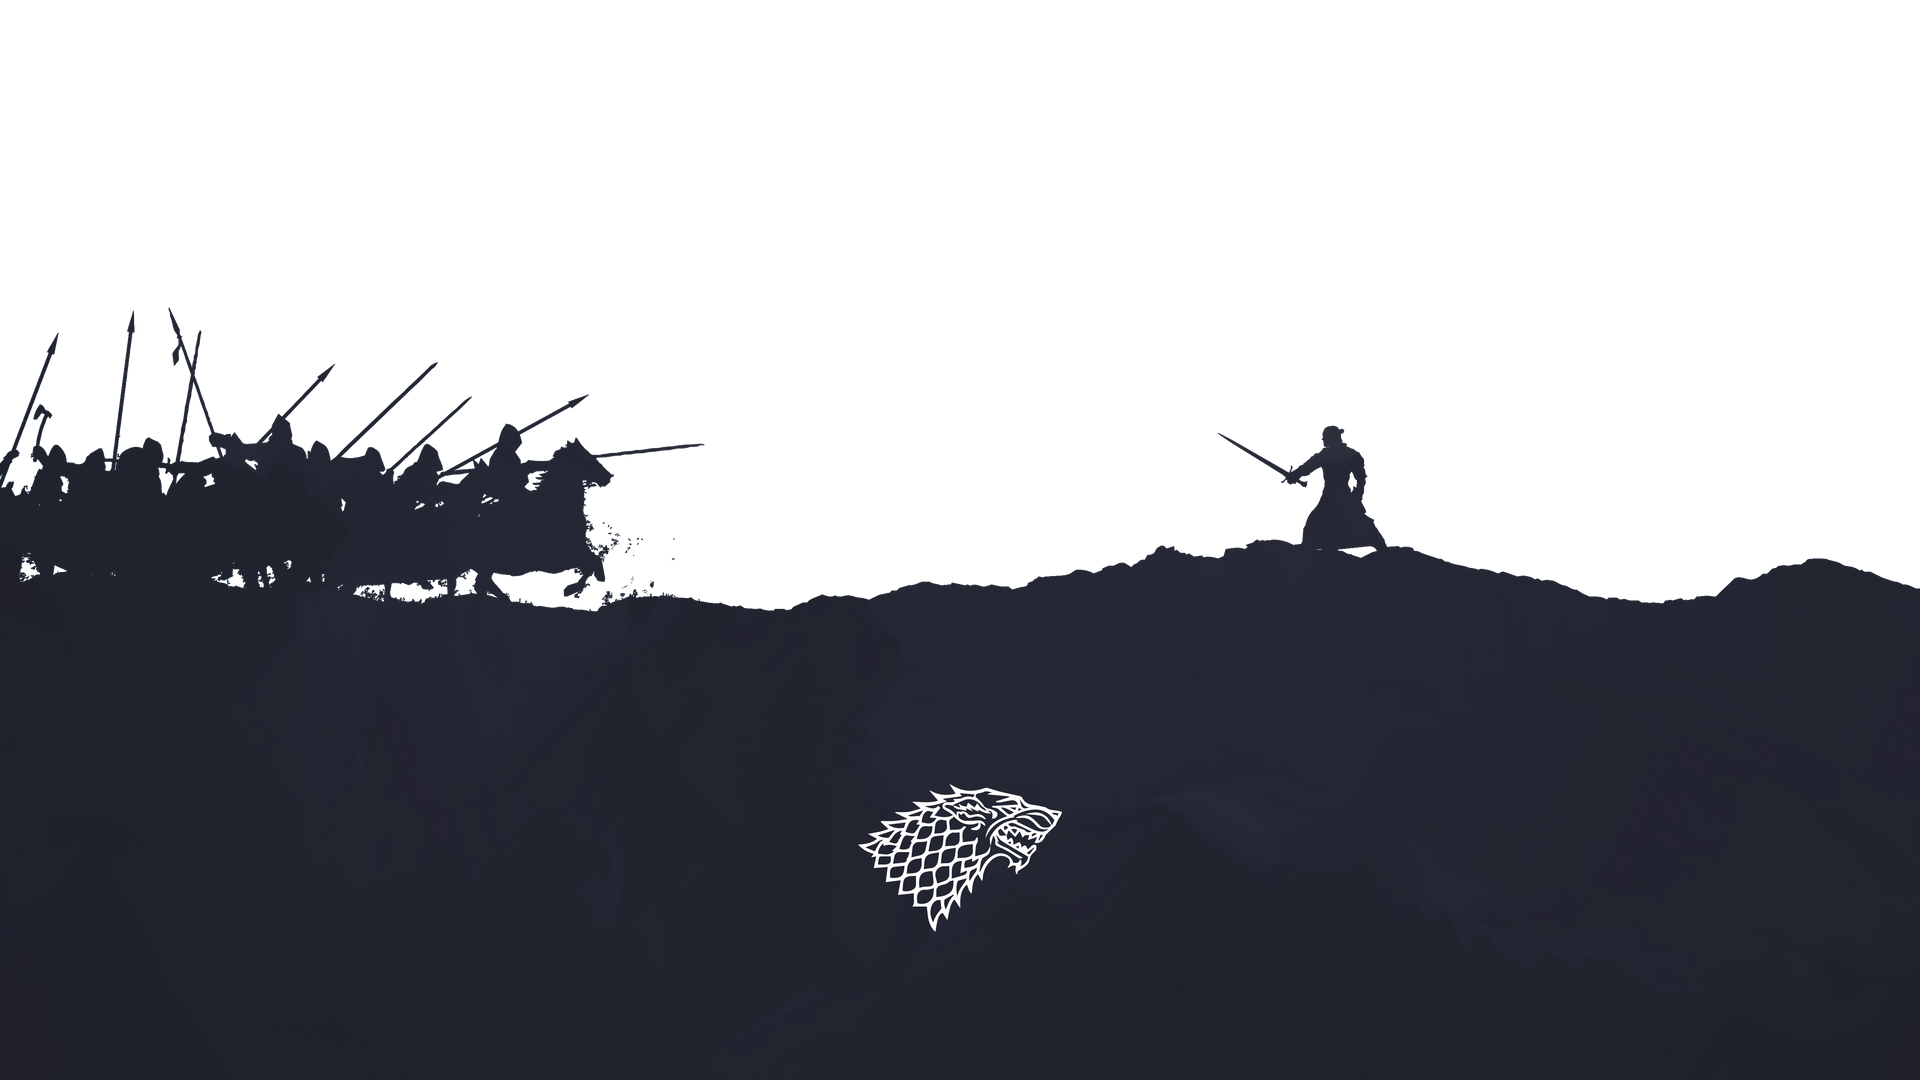
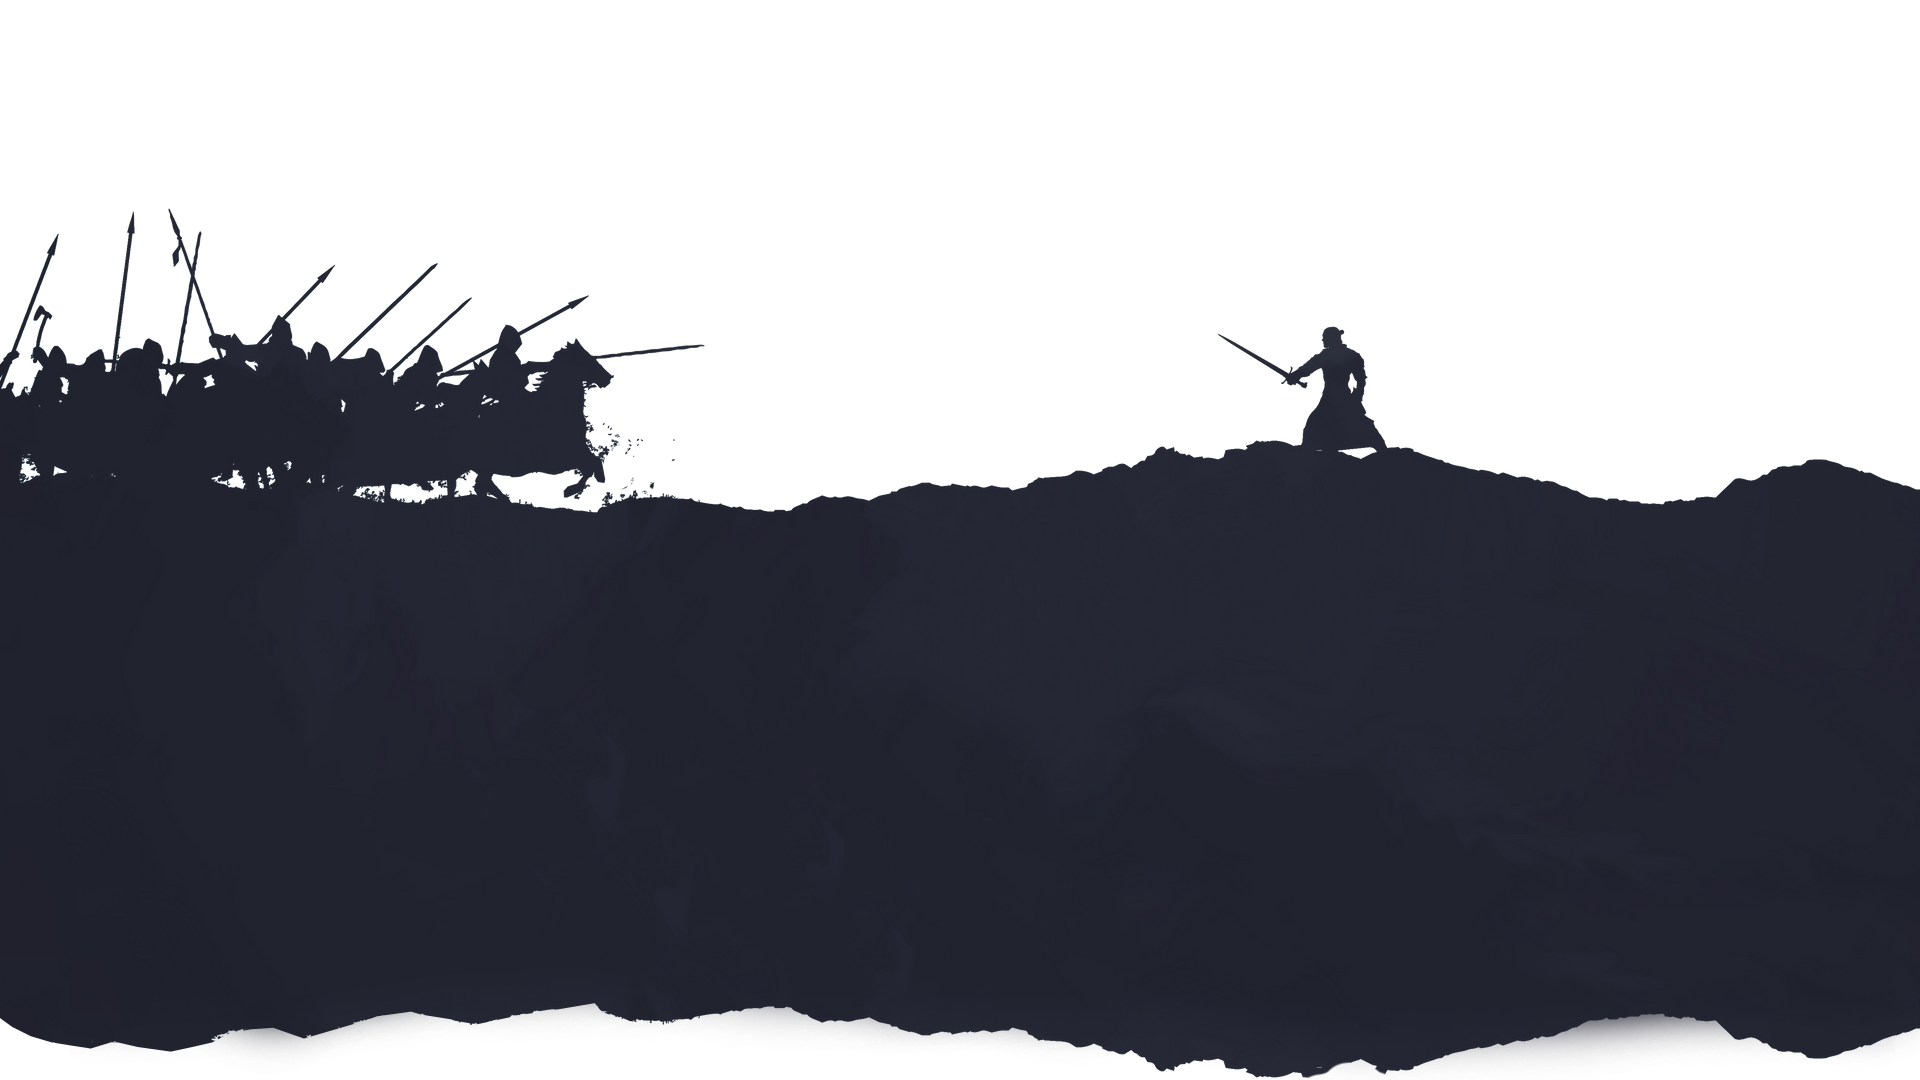
ajustado imagem do header

diff --git a/src/partials/Header.js b/src/partials/Header.js
@@ -1,10 +1,11 @@
-import React, { useState } from 'react'
+import React from 'react'
 import styled from 'styled-components'
 import { throttle, } from 'lodash'
 import { Cinzel } from '../components/Text';
+
 const HeaderContainer = styled.div`
   overflow: hidden;
-  height: 100vh;
+  height: 120vh;
   width: 100vw;
   position: relative;
   text-align: center;
@@ -25,11 +26,11 @@ const HeaderTop = styled.div`
   background-image: url(imgs/bg-1.png);
   background-size: cover;
   width: 100vw;
-  height: 100vh;
+  height: 120vh;
   position: absolute;
-  top: 0;
+  bottom: 184px;
   background-repeat: no-repeat;
-  background-position: center center;
+  background-position: bottom;
   z-index: -1;
   transform: scale(1.2);
   transition: .2s;
@@ -102,7 +103,6 @@ export default class Header extends React.Component {
     if(!check) {
       e.persist();
       this._throttledMouseMove(e);
-
     }
   }
   render() {
@@ -113,7 +113,7 @@ export default class Header extends React.Component {
           <HeaderTop style={{ transform: `scale(1.15) translateX(${mouseXY.x * 0.015}px) translateY(${mouseXY.y * 0.07}px)` }} />
           <HeaderBottom style={{ transform: `scale(1.15) translateX(${mouseXY.x * 0.010}px) translateY(${mouseXY.y * 0.010}px)` }} />
           <Nav>
-            <a href="javascript:;"><Cinzel>INSCRIÇÔES</Cinzel></a>
+            <a href="https://www.sympla.com.br/hackabrains-2019---game-of-codes__499575" target="_blank"><Cinzel>INSCRIÇÔES</Cinzel></a>
             <a href="javascript:;"><Cinzel>PATROCINADORES</Cinzel></a>
           </Nav>
           <CinzelTitle><big>G</big>ame of <big>C</big>odes</CinzelTitle><br/>

diff --git a/src/App.js b/src/App.js
@@ -1,6 +1,12 @@
-import React, {useEffect} from 'react'
+import React from 'react'
 import Header from './partials/Header'
 import { createGlobalStyle } from 'styled-components'
+import dayjs from 'dayjs';
+import relativeTime from 'dayjs/plugin/relativeTime';
+import 'dayjs/locale/pt-br';
+import Sponsors from './partials/Sponsors';
+dayjs.locale('pt-br');
+dayjs.extend(relativeTime);
 
 const GlobalStyle = createGlobalStyle`
   * {
@@ -17,6 +23,7 @@ export default function App () {
     <>
       <GlobalStyle />
       <Header />
+      <Sponsors />
     </>
   )
 }

diff --git a/src/partials/Sponsors.js b/src/partials/Sponsors.js
@@ -1,0 +1,18 @@
+import React from 'react'
+import styled from 'styled-components'
+
+const Container = styled.div`
+    /* background-image: url(/imgs/bg-bottom.png); */
+    height: 400px;
+    /* background-repeat: no-repeat; */
+    margin-top: -1px;
+    background-size: cover;
+`
+
+export default function Sponsors() {
+  return (
+    <Container>
+      
+    </Container>
+  )
+}
